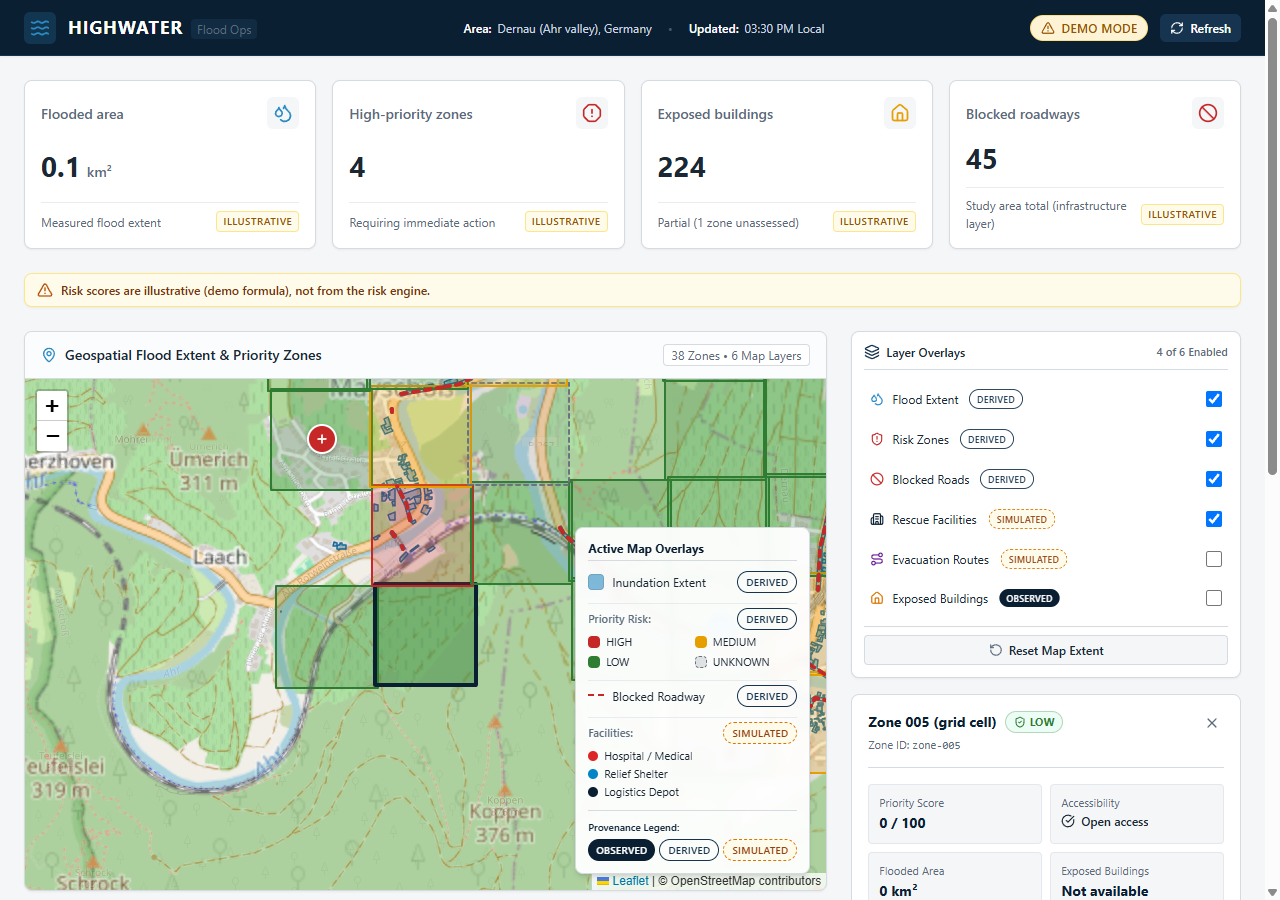
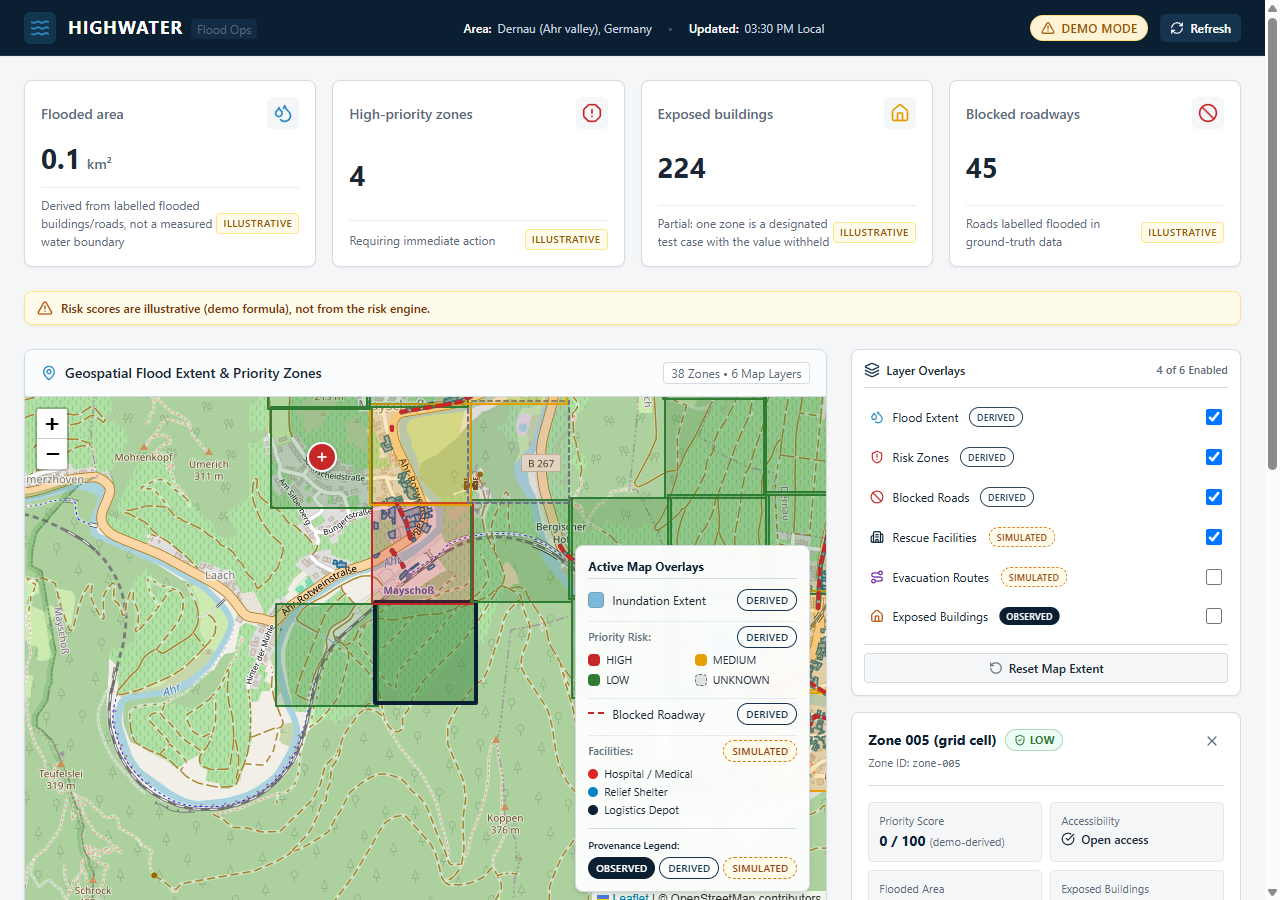
Fix Dernau stat card wording and contrast

diff --git a/modules/dashboard/src/test/DernauWiring.test.jsx b/modules/dashboard/src/test/DernauWiring.test.jsx
@@ -264,4 +264,108 @@ describe('Dernau Wiring & 6th Overlay Suite', () => {
     rerender(<ProvenanceBadge value="observed" />);
     expect(screen.getByText('Observed')).toBeInTheDocument();
   });
+
+  // --------------------------------------------------------------------------
+  // 5. Stat Card Honesty Captions & Zone-005 Demo-Derived Notice
+  // --------------------------------------------------------------------------
+  it('renders the three honesty captions on StatCards when data has partial/ground-truth values', () => {
+    const dataWithPartial = {
+      metadata: {
+        generatedAt: '2026-10-14T10:00:00Z',
+        dataMode: 'demo',
+        studyArea: 'Dernau (Ahr valley), Germany',
+      },
+      zones: [
+        {
+          zoneId: 'zone-001',
+          name: 'Zone 001',
+          riskLevel: 'LOW',
+          riskScore: 10,
+          floodedPercent: 1.0,
+          floodedAreaKm2: 0.1,
+          exposedBuildings: 224,
+          accessibility: 'OPEN',
+          reasons: [],
+          hasGeometry: true,
+        },
+        {
+          zoneId: 'zone-005',
+          name: 'Zone 005',
+          riskLevel: 'LOW',
+          riskScore: 0,
+          floodedPercent: 0,
+          floodedAreaKm2: 0,
+          exposedBuildings: null, // designated test case with withheld value
+          accessibility: 'OPEN',
+          reasons: [],
+          hasGeometry: true,
+        },
+      ],
+      floodExtent: { type: 'FeatureCollection', features: [] },
+      blockedRoads: {
+        type: 'FeatureCollection',
+        features: [{ type: 'Feature', properties: {}, geometry: null }],
+      },
+      facilities: { type: 'FeatureCollection', features: [] },
+      routes: [],
+      buildingsExposed: { type: 'FeatureCollection', features: [] },
+    };
+
+    render(<DashboardLayout data={dataWithPartial} onRefresh={vi.fn()} />);
+
+    // 1. Flooded area caption
+    expect(
+      screen.getByText('Derived from labelled flooded buildings/roads, not a measured water boundary')
+    ).toBeInTheDocument();
+
+    // 2. Blocked roadways caption
+    expect(
+      screen.getByText('Roads labelled flooded in ground-truth data')
+    ).toBeInTheDocument();
+
+    // 3. Exposed buildings partial note
+    expect(
+      screen.getByText('Partial: one zone is a designated test case with the value withheld')
+    ).toBeInTheDocument();
+  });
+
+  it('displays "(demo-derived)" beside Priority Score in ZoneDetails and ZoneList for zone with null numeric field', () => {
+    const zoneWithNullNumeric = {
+      zoneId: 'zone-005',
+      name: 'Zone 005 (grid cell)',
+      riskLevel: 'LOW',
+      riskScore: 0,
+      floodedAreaKm2: 0,
+      floodedPercent: 0,
+      exposedBuildings: null,
+      accessibility: 'OPEN',
+      reasons: ['Designated test cases, not measured data: missing exposed_buildings numeric field'],
+      hasGeometry: true,
+    };
+
+    const data = {
+      metadata: { generatedAt: '2026-10-14T10:00:00Z', dataMode: 'demo' },
+      zones: [zoneWithNullNumeric],
+      floodExtent: { type: 'FeatureCollection', features: [] },
+      blockedRoads: { type: 'FeatureCollection', features: [] },
+      facilities: { type: 'FeatureCollection', features: [] },
+      routes: [],
+      buildingsExposed: { type: 'FeatureCollection', features: [] },
+    };
+
+    render(<DashboardLayout data={data} onRefresh={vi.fn()} />);
+
+    // In ZoneList: row shows Score: 0 and (demo-derived)
+    expect(screen.getByText('Score: 0')).toBeInTheDocument();
+    expect(screen.getAllByText('(demo-derived)').length).toBeGreaterThanOrEqual(1);
+
+    // Click row to open ZoneDetails
+    fireEvent.click(screen.getByRole('button', { name: /Zone 005/i }));
+
+    // In ZoneDetails: Priority Score shows 0 / 100 with (demo-derived) and Exposed Buildings shows Not available
+    const detailsRegion = screen.getByRole('region', { name: /Zone Inspection Details/i });
+    expect(detailsRegion).toHaveTextContent('0 / 100');
+    expect(detailsRegion).toHaveTextContent('(demo-derived)');
+    expect(detailsRegion).toHaveTextContent('Not available');
+  });
 });

diff --git a/modules/dashboard/src/components/ZoneDetails.jsx b/modules/dashboard/src/components/ZoneDetails.jsx
@@ -77,6 +77,12 @@ export default function ZoneDetails({
   const access = getAccessibilityDisplay(zone.accessibility);
   const AccessIcon = access.icon;
 
+  const hasNullNumeric =
+    zone.riskScore !== null &&
+    (zone.floodedAreaKm2 === null ||
+      zone.floodedPercent === null ||
+      zone.exposedBuildings === null);
+
   const scoreDisplay = zone.riskScore !== null ? `${zone.riskScore} / 100` : 'Not available';
   const floodAreaDisplay = zone.floodedAreaKm2 !== null ? `${zone.floodedAreaKm2} km²` : 'Not available';
   const floodPctDisplay = zone.floodedPercent !== null ? `${zone.floodedPercent}%` : 'Not available';
@@ -136,9 +142,16 @@ export default function ZoneDetails({
         {/* Risk Score */}
         <div className="p-2.5 rounded bg-surface border border-border/50">
           <span className="text-[11px] text-text-muted block">Priority Score</span>
-          <span className="text-sm font-bold text-navy-900 mt-0.5 block">
-            {scoreDisplay}
-          </span>
+          <div className="flex items-baseline space-x-1 mt-0.5">
+            <span className="text-sm font-bold text-navy-900 block">
+              {scoreDisplay}
+            </span>
+            {hasNullNumeric && (
+              <span className="text-[11px] font-normal text-text-muted">
+                (demo-derived)
+              </span>
+            )}
+          </div>
         </div>
 
         {/* Accessibility Status */}

diff --git a/modules/dashboard/src/app/DashboardLayout.jsx b/modules/dashboard/src/app/DashboardLayout.jsx
@@ -158,7 +158,7 @@ export default function DashboardLayout({
                 ? `Filtered view: ${stats.activeZoneCount} of ${stats.totalZoneCount} zones`
                 : stats.floodedAreaIsPartial
                 ? `Partial (${stats.floodedMissingCount} zone unassessed)`
-                : 'Measured flood extent'
+                : 'Derived from labelled flooded buildings/roads, not a measured water boundary'
             }
           />
           <StatCard
@@ -183,7 +183,7 @@ export default function DashboardLayout({
               stats.isFiltered
                 ? `Filtered view: ${stats.activeZoneCount} of ${stats.totalZoneCount} zones`
                 : stats.exposedBuildingsIsPartial
-                ? `Partial (${stats.bldgsMissingCount} zone unassessed)`
+                ? 'Partial: one zone is a designated test case with the value withheld'
                 : 'Structures within flood zone'
             }
           />
@@ -193,7 +193,7 @@ export default function DashboardLayout({
             isDemo={stats.isDemo}
             icon={Ban}
             variant="highRisk"
-            caption="Study area total (infrastructure layer)"
+            caption="Roads labelled flooded in ground-truth data"
           />
         </section>
 

diff --git a/modules/dashboard/src/components/ZoneList.jsx b/modules/dashboard/src/components/ZoneList.jsx
@@ -25,6 +25,12 @@ function ZoneListRow({
     }
   }, [isSelected]);
 
+  const hasNullNumeric =
+    zone.riskScore !== null &&
+    (zone.exposedBuildings === null ||
+      zone.floodedAreaKm2 === null ||
+      zone.floodedPercent === null);
+
   const scoreText = zone.riskScore !== null ? zone.riskScore : 'Not available';
   const bldgText = zone.exposedBuildings !== null ? `${zone.exposedBuildings} bldgs` : 'Bldgs: Not available';
 
@@ -75,6 +81,9 @@ function ZoneListRow({
           <span className={zone.riskScore === null ? 'text-text-muted font-normal' : ''}>
             Score: {scoreText}
           </span>
+          {hasNullNumeric && (
+            <span className="text-[10px] font-normal text-text-muted ml-1">(demo-derived)</span>
+          )}
         </div>
         <div className="text-[11px] text-text-muted flex items-center justify-end space-x-1">
           <Building2 className="w-3 h-3 text-text-muted" aria-hidden="true" />

diff --git a/modules/dashboard/src/components/MapControls.jsx b/modules/dashboard/src/components/MapControls.jsx
@@ -18,7 +18,7 @@ export default function MapControls({
     { key: 'roads', label: 'Blocked Roads', icon: Ban, color: 'text-risk-high', provenance: 'derived' },
     { key: 'facilities', label: 'Rescue Facilities', icon: Building2, color: 'text-navy-900', provenance: 'simulated' },
     { key: 'routes', label: 'Evacuation Routes', icon: Route, color: 'text-route', provenance: 'simulated' },
-    { key: 'buildings', label: 'Exposed Buildings', icon: Home, color: 'text-amber-600', provenance: 'observed' },
+    { key: 'buildings', label: 'Exposed Buildings', icon: Home, color: 'text-amber-700', provenance: 'observed' },
   ];
 
   const enabledCount = Object.values(visibleLayers).filter(Boolean).length;

diff --git a/modules/dashboard/src/config/theme.js b/modules/dashboard/src/config/theme.js
@@ -22,7 +22,7 @@ export const THEME = {
     'risk-unknown': '#6B7280',
     route: '#6A1B9A',
     selected: '#0B1F33',
-    buildingFlooded: '#D97706',
+    buildingFlooded: '#B45309', // WCAG AA compliant (5.02:1 with white text)
     buildingFloodedBorder: '#92400E',
     demo: {
       text: '#965300', // WCAG AA compliant (5.39:1 on #FFF3D6)
